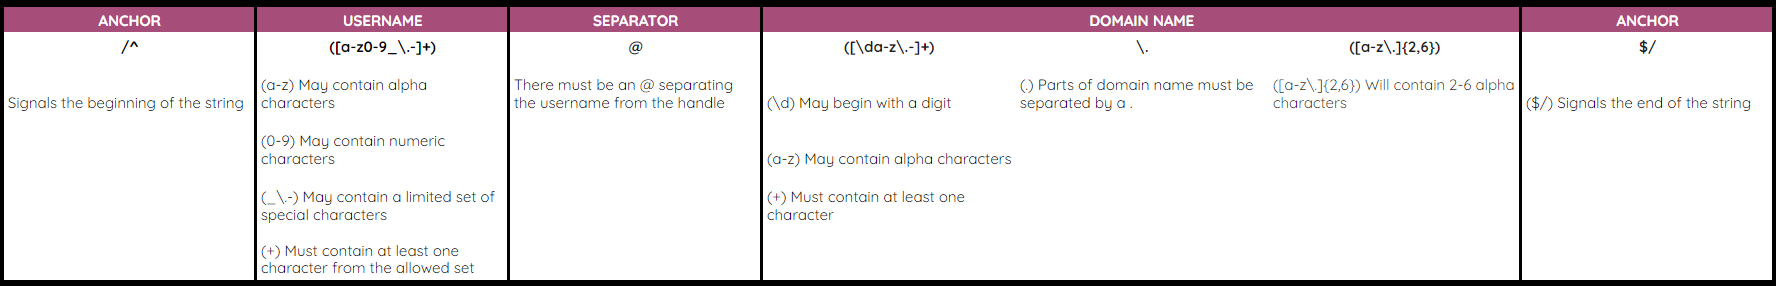
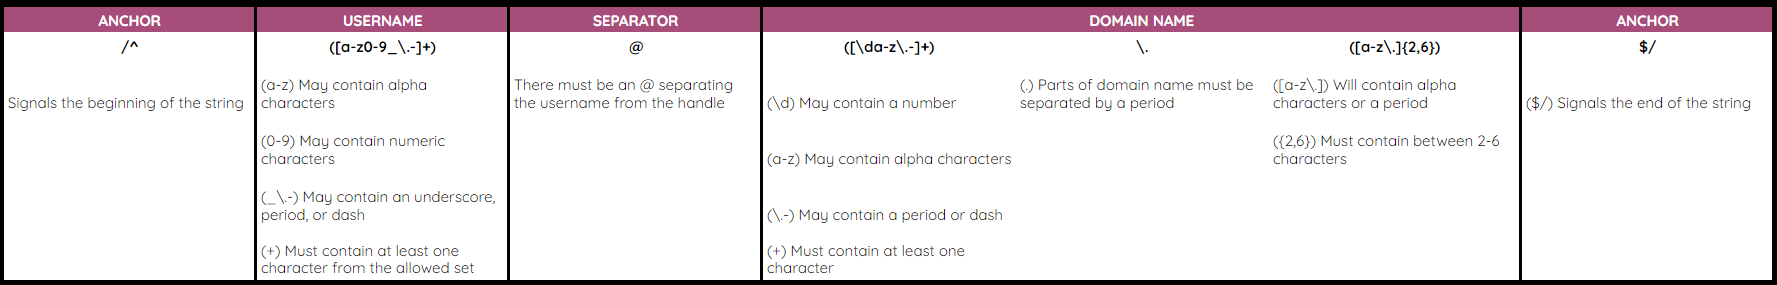
work saved

diff --git a/gist-template.md b/gist-template.md
@@ -54,6 +54,8 @@ Bracket Expressions -- displayed inside `[brackets]` -- signify the allowable ty
 - `_\.-` means the group may contain a limited set of special characters
 - `a-z`  means the group may contain alpha characters 
 - `0-9`  means the group may contain numeric characters 
+- `[a-z0-9_\.-]` means the group may contain alphanumeric, underscore, period, or dash
+
 
 ### Character Classes
 
@@ -69,8 +71,15 @@ The OR Operator (|) allows you to set specified allowable characters, while offe
 
 ### Flags
 
+Sometimes flags are added at the very end of a RegEx, and apply additional restrictions on the RegEx as a whole. There are no flags in our email address example, but some examples found in other RegEx are `i` which means to ignore case, or `m` which means that multi-line entry format should be respected, and not condensed to one line.
+
+
 ### Character Escapes
+
+`\` is often used in RegEx when a character needs to be interpreted as its character, not as a quantifier in an equation or statement. For instance, in a RegEx, `.` can mean "any one character." By preceeding it with \, it means that we are only looking for the character period. In our example:
+
+- `\.` means that a period is one of the allowable characters. The \ ensures that the period isn't interpreted as "any one character," but instead as a "plain old period."
 
 ## Author
 
-A short section about the author with a link to the author's GitHub profile (replace with your information and a link to your profile)
+This Gist was written by Colin Leidy. His GitHub profile can be found [here](https://github.com/CollyLee).
